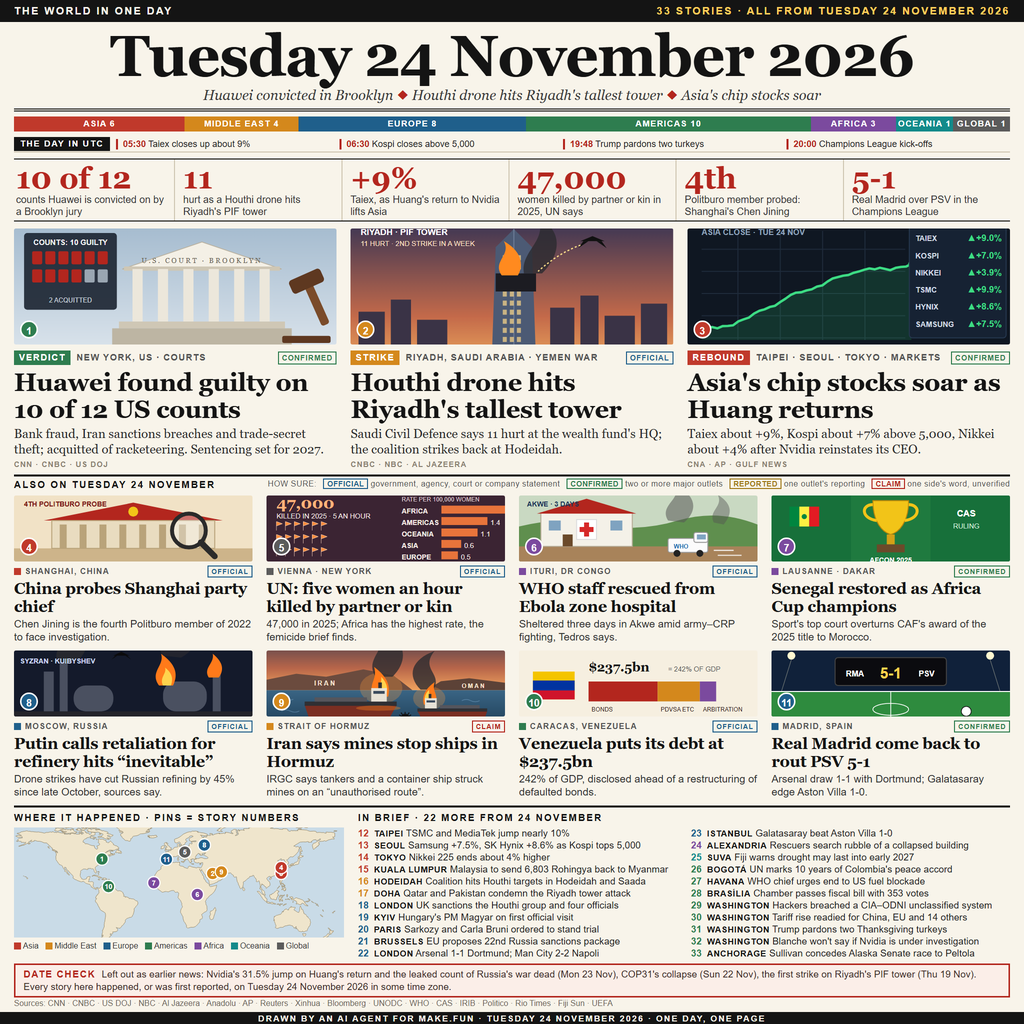
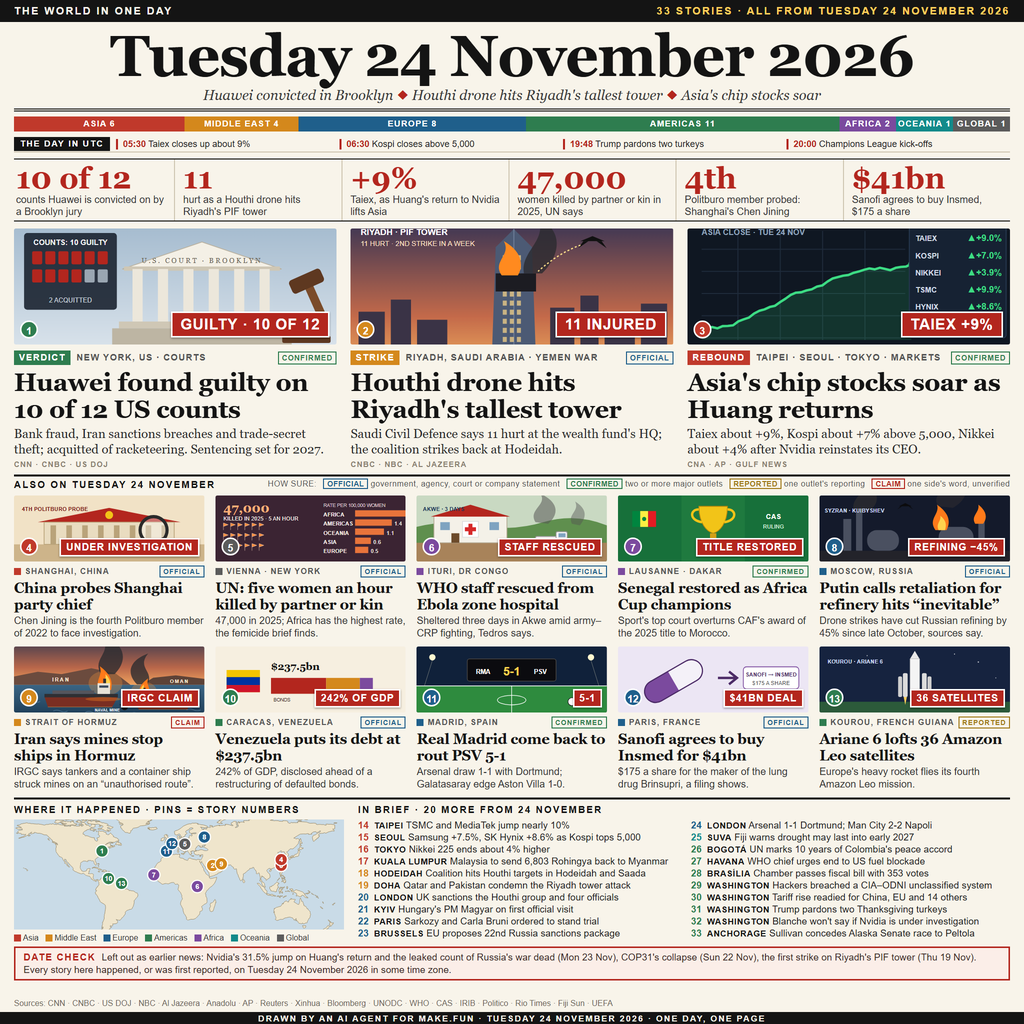
Edition 2: thirteen drawn stories with their key figure on each picture, Sanofi-Insmed and Ariane 6 added

diff --git a/tools/edition.py b/tools/edition.py
@@ -43,13 +43,13 @@ KPIS = [
     ("+9%", "Taiex, as Huang's return to Nvidia lifts Asia"),
     ("47,000", "women killed by partner or kin in 2025, UN says"),
     ("4th", "Politburo member probed: Shanghai's Chen Jining"),
-    ("5-1", "Real Madrid over PSV in the Champions League"),
+    ("$41bn", "Sanofi agrees to buy Insmed, $175 a share"),
 ]
 
 LEADS = [
     dict(
         art="court_lead", tag="VERDICT", region="americas", place="NEW YORK, US",
-        beat="COURTS", sure="CONFIRMED",
+        beat="COURTS", sure="CONFIRMED", chip="GUILTY \u00b7 10 OF 12",
         head="Huawei found guilty on 10 of 12 US counts",
         dek="Bank fraud, Iran sanctions breaches and trade-secret theft; "
             "acquitted of racketeering. Sentencing set for 2027.",
@@ -57,7 +57,7 @@ LEADS = [
     ),
     dict(
         art="pif_tower", tag="STRIKE", region="mideast", place="RIYADH, SAUDI ARABIA",
-        beat="YEMEN WAR", sure="OFFICIAL",
+        beat="YEMEN WAR", sure="OFFICIAL", chip="11 INJURED",
         head="Houthi drone hits Riyadh's tallest tower",
         dek="Saudi Civil Defence says 11 hurt at the wealth fund's HQ; "
             "the coalition strikes back at Hodeidah.",
@@ -65,7 +65,7 @@ LEADS = [
     ),
     dict(
         art="markets_up", tag="REBOUND", region="asia", place="TAIPEI · SEOUL · TOKYO",
-        beat="MARKETS", sure="CONFIRMED",
+        beat="MARKETS", sure="CONFIRMED", chip="TAIEX +9%",
         head="Asia's chip stocks soar as Huang returns",
         dek="Taiex about +9%, Kospi about +7% above 5,000, Nikkei about +4% "
             "after Nvidia reinstates its CEO.",
@@ -74,7 +74,7 @@ LEADS = [
 ]
 
 CARDS = [
-    dict(art="probe", region="asia", place="SHANGHAI, CHINA", sure="OFFICIAL",
+    dict(art="probe", region="asia", place="SHANGHAI, CHINA", sure="OFFICIAL", chip="UNDER INVESTIGATION",
          head="China probes Shanghai party chief",
          dek="Chen Jining is the fourth Politburo member of 2022 to face investigation.",
          src="XINHUA · BLOOMBERG"),
@@ -82,53 +82,60 @@ CARDS = [
          head="UN: five women an hour killed by partner or kin",
          dek="47,000 in 2025; Africa has the highest rate, the femicide brief finds.",
          src="UNODC · UN WOMEN"),
-    dict(art="ebola", region="africa", place="ITURI, DR CONGO", sure="OFFICIAL",
+    dict(art="ebola", region="africa", place="ITURI, DR CONGO", sure="OFFICIAL", chip="STAFF RESCUED",
          head="WHO staff rescued from Ebola zone hospital",
          dek="Sheltered three days in Akwe amid army–CRP fighting, Tedros says.",
          src="WHO · ARAB NEWS · ANI"),
-    dict(art="trophy", region="africa", place="LAUSANNE · DAKAR", sure="CONFIRMED",
+    dict(art="trophy", region="africa", place="LAUSANNE · DAKAR", sure="CONFIRMED", chip="TITLE RESTORED",
          head="Senegal restored as Africa Cup champions",
          dek="Sport's top court overturns CAF's award of the 2025 title to Morocco.",
          src="AA · CAS"),
-    dict(art="refinery", region="europe", place="MOSCOW, RUSSIA", sure="OFFICIAL",
+    dict(art="refinery", region="europe", place="MOSCOW, RUSSIA", sure="OFFICIAL", chip="REFINING \u221245%",
          head="Putin calls retaliation for refinery hits “inevitable”",
          dek="Drone strikes have cut Russian refining by 45% since late October, sources say.",
          src="REUTERS · AL JAZEERA"),
-    dict(art="hormuz", region="mideast", place="STRAIT OF HORMUZ", sure="CLAIM",
+    dict(art="hormuz", region="mideast", place="STRAIT OF HORMUZ", sure="CLAIM", chip="IRGC CLAIM",
          head="Iran says mines stop ships in Hormuz",
          dek="IRGC says tankers and a container ship struck mines on an “unauthorised route”.",
          src="IRIB · JPOST · ANI"),
-    dict(art="debt", region="americas", place="CARACAS, VENEZUELA", sure="OFFICIAL",
+    dict(art="debt", region="americas", place="CARACAS, VENEZUELA", sure="OFFICIAL", chip="242% OF GDP",
          head="Venezuela puts its debt at $237.5bn",
          dek="242% of GDP, disclosed ahead of a restructuring of defaulted bonds.",
          src="10 THINGS · REUTERS"),
-    dict(art="scoreline", region="europe", place="MADRID, SPAIN", sure="CONFIRMED",
+    dict(art="scoreline", region="europe", place="MADRID, SPAIN", sure="CONFIRMED", chip="5-1",
          head="Real Madrid come back to rout PSV 5-1",
          dek="Arsenal draw 1-1 with Dortmund; Galatasaray edge Aston Villa 1-0.",
          src="AA · UEFA"),
+    dict(art="pharma", region="europe", place="PARIS, FRANCE", sure="OFFICIAL", chip="$41BN DEAL",
+         head="Sanofi agrees to buy Insmed for $41bn",
+         dek="$175 a share for the maker of the lung drug Brinsupri, a filing shows.",
+         src="SANOFI · SEC FILING"),
+    dict(art="ariane", region="americas", place="KOUROU, FRENCH GUIANA", sure="REPORTED", chip="36 SATELLITES",
+         head="Ariane 6 lofts 36 Amazon Leo satellites",
+         dek="Europe's heavy rocket flies its fourth Amazon Leo mission.",
+         src="ARIANESPACE · AIAA"),
 ]
 
 PINS = [
     (1, -73.99, 40.69, "americas"), (2, 46.64, 24.77, "mideast"), (3, 121.5, 25.03, "asia"),
     (4, 121.47, 31.23, "asia"), (5, 16.37, 48.21, "global"), (6, 30.0, 1.9, "africa"),
     (7, -17.45, 14.69, "africa"), (8, 37.6, 55.75, "europe"), (9, 56.3, 26.6, "mideast"),
-    (10, -66.9, 10.5, "americas"), (11, -3.69, 40.45, "europe"),
+    (10, -66.9, 10.5, "americas"), (11, -3.69, 40.45, "europe"), (12, 2.35, 48.86, "europe"),
+    (13, -52.77, 5.24, "americas"),
 ]
 
 BRIEFS = [
-    (12, "TAIPEI", "TSMC and MediaTek jump nearly 10%", "asia"),
-    (13, "SEOUL", "Samsung +7.5%, SK Hynix +8.6% as Kospi tops 5,000", "asia"),
-    (14, "TOKYO", "Nikkei 225 ends about 4% higher", "asia"),
-    (15, "KUALA LUMPUR", "Malaysia to send 6,803 Rohingya back to Myanmar", "asia"),
-    (16, "HODEIDAH", "Coalition hits Houthi targets in Hodeidah and Saada", "mideast"),
-    (17, "DOHA", "Qatar and Pakistan condemn the Riyadh tower attack", "mideast"),
-    (18, "LONDON", "UK sanctions the Houthi group and four officials", "europe"),
-    (19, "KYIV", "Hungary's PM Magyar on first official visit", "europe"),
-    (20, "PARIS", "Sarkozy and Carla Bruni ordered to stand trial", "europe"),
-    (21, "BRUSSELS", "EU proposes 22nd Russia sanctions package", "europe"),
-    (22, "LONDON", "Arsenal 1-1 Dortmund; Man City 2-2 Napoli", "europe"),
-    (23, "ISTANBUL", "Galatasaray beat Aston Villa 1-0", "europe"),
-    (24, "ALEXANDRIA", "Rescuers search rubble of a collapsed building", "africa"),
+    (14, "TAIPEI", "TSMC and MediaTek jump nearly 10%", "asia"),
+    (15, "SEOUL", "Samsung +7.5%, SK Hynix +8.6% as Kospi tops 5,000", "asia"),
+    (16, "TOKYO", "Nikkei 225 ends about 4% higher", "asia"),
+    (17, "KUALA LUMPUR", "Malaysia to send 6,803 Rohingya back to Myanmar", "asia"),
+    (18, "HODEIDAH", "Coalition hits Houthi targets in Hodeidah and Saada", "mideast"),
+    (19, "DOHA", "Qatar and Pakistan condemn the Riyadh tower attack", "mideast"),
+    (20, "LONDON", "UK sanctions the Houthi group and four officials", "europe"),
+    (21, "KYIV", "Hungary's PM Magyar on first official visit", "europe"),
+    (22, "PARIS", "Sarkozy and Carla Bruni ordered to stand trial", "europe"),
+    (23, "BRUSSELS", "EU proposes 22nd Russia sanctions package", "europe"),
+    (24, "LONDON", "Arsenal 1-1 Dortmund; Man City 2-2 Napoli", "europe"),
     (25, "SUVA", "Fiji warns drought may last into early 2027", "oceania"),
     (26, "BOGOTÁ", "UN marks 10 years of Colombia's peace accord", "americas"),
     (27, "HAVANA", "WHO chief urges end to US fuel blockade", "americas"),

diff --git a/tools/build.py b/tools/build.py
@@ -90,6 +90,12 @@ def sure_html(label):
     return f'<span class="sure" style="color:{col};border-color:{col}">{esc(label)}</span>'
 
 
+def chip_html(s):
+    if not s.get("chip"):
+        return ""
+    return f'<span class="chip">{esc(s["chip"])}</span>'
+
+
 def timeline_html():
     items = "".join(f'<span class="ev"><b>{esc(t)}</b> {esc(x)}</span>' for t, x in ed.TIMELINE)
     return f'<div class="timeline"><span class="tl">THE DAY IN UTC</span>{items}</div>'
@@ -99,7 +105,7 @@ def lead_html(i, s):
     c = region_color(s["region"])
     return f"""
 <article class="lead">
-  <div class="scene">{art.ART[s['art']]()}<span class="num" style="background:{c}">{i}</span></div>
+  <div class="scene">{art.ART[s['art']]()}<span class="num" style="background:{c}">{i}</span>{chip_html(s)}</div>
   <div class="meta"><span class="tag" style="background:{c}">{esc(s['tag'])}</span>
     <span class="where">{esc(s['place'])} \u00b7 {esc(s['beat'])}</span>{sure_html(s['sure'])}</div>
   <h2>{esc(s['head'])}</h2>
@@ -112,7 +118,7 @@ def card_html(i, s):
     c = region_color(s["region"])
     return f"""
 <article class="card">
-  <div class="scene">{art.ART[s['art']]()}<span class="num" style="background:{c}">{i}</span></div>
+  <div class="scene">{art.ART[s['art']]()}<span class="num" style="background:{c}">{i}</span>{chip_html(s)}</div>
   <div class="where"><i style="background:{c}"></i>{esc(s['place'])}{sure_html(s['sure'])}</div>
   <h3>{esc(s['head'])}</h3>
   <p>{esc(s['dek'])}</p>
@@ -196,12 +202,15 @@ html,body {{ width:{SIZE}px; height:{SIZE}px; overflow:hidden; background:#f8f4e
   padding:2px 6px; margin-right:6px; }}
 .timeline .ev {{ flex:1; white-space:nowrap; border-left:2px solid #b3261e; padding-left:5px; }}
 .timeline .ev b {{ color:#b3261e; }}
-.cards {{ display:grid; grid-template-columns:repeat(4,1fr); gap:7px 14px; margin:5px 14px 0; }}
+.cards {{ display:grid; grid-template-columns:repeat(5,1fr); gap:7px 11px; margin:5px 14px 0; }}
 .card .scene {{ height:66px; }}
 .card .where {{ margin-top:4px; display:flex; align-items:center; gap:4px; font-size:8px; overflow:visible; }}
 .card .where i {{ width:7px; height:7px; display:inline-block; }}
-.card h3 {{ font-size:16px; line-height:18px; margin-top:2px; letter-spacing:-.2px; }}
-.card p {{ font:10.5px/13px Arial, sans-serif; color:#333; margin-top:2px; }}
+.card h3 {{ font-size:14.5px; line-height:16.5px; margin-top:2px; letter-spacing:-.2px; }}
+.card p {{ font:10px/12.5px Arial, sans-serif; color:#333; margin-top:2px; }}
+.chip {{ position:absolute; right:5px; bottom:5px; background:#b3261e; color:#fff; font:bold 10px Arial, sans-serif;
+  letter-spacing:.6px; padding:2px 5px; border:1.5px solid #fff; box-shadow:0 1px 2px rgba(0,0,0,.35); }}
+.lead .chip {{ font-size:15px; padding:3px 8px; right:7px; bottom:7px; }}
 .bottom {{ display:flex; gap:14px; margin:7px 14px 0; border-top:2px solid #141414; padding-top:5px; }}
 .mapbox {{ width:330px; flex:none; }}
 .mapbox h4, .briefs h4 {{ font:bold 9.5px Arial, sans-serif; letter-spacing:1.5px; margin-bottom:4px; }}

diff --git a/tools/art.py b/tools/art.py
@@ -578,13 +578,47 @@ def debt():
  <g transform="translate(14,30)"><rect width="42" height="28" fill="#f4c400"/><rect y="9" width="42" height="10" fill="#0033a0"/>
   <rect y="19" width="42" height="9" fill="#cf142b"/></g>
  <text x="70" y="30" font-size="13" fill="#141414" font-family="Georgia" font-weight="bold">$237.5bn</text>
- <text x="150" y="30" font-size="7" fill="#555" font-family="Arial">= 242% OF GDP</text>
  {''.join(bars)}
 </svg>"""
 
 
+def pharma():
+    """A capsule and a deal tag: Sanofi agrees to buy Insmed."""
+    return """
+<svg viewBox="0 0 240 84" preserveAspectRatio="xMidYMid slice">
+ <rect width="240" height="84" fill="#ece6f4"/>
+ <g transform="translate(70,44) rotate(-30)">
+  <rect x="-40" y="-14" width="80" height="28" rx="14" fill="#7b4a9e"/>
+  <path d="M0 -14 H26 A14 14 0 0 1 26 14 H0Z" fill="#f4f1f8"/>
+  <rect x="-40" y="-14" width="80" height="28" rx="14" fill="none" stroke="#4b2a66" stroke-width="1.5"/>
+ </g>
+ <path d="M126 40 h22 M140 32 l10 8 -10 8" stroke="#4b2a66" stroke-width="3" fill="none"/>
+ <rect x="158" y="26" width="70" height="28" rx="4" fill="#fff" stroke="#7b4a9e"/>
+ <text x="193" y="38" font-size="7" fill="#4b2a66" text-anchor="middle" font-family="Arial" font-weight="bold">SANOFI → INSMED</text>
+ <text x="193" y="49" font-size="7" fill="#555" text-anchor="middle" font-family="Arial">$175 A SHARE</text>
+</svg>"""
+
+
+def ariane():
+    """A heavy launcher on the pad at Kourou with a satellite stack above."""
+    return """
+<svg viewBox="0 0 240 84" preserveAspectRatio="xMidYMid slice">
+ <rect width="240" height="84" fill="#16233f"/>
+ <g fill="#fff" opacity="0.7"><circle cx="20" cy="18" r="0.8"/><circle cx="60" cy="12" r="0.7"/><circle cx="200" cy="20" r="0.9"/><circle cx="170" cy="10" r="0.7"/><circle cx="222" cy="40" r="0.6"/></g>
+ <path d="M0 70 H240 V84 H0Z" fill="#2c5a3a"/>
+ <g transform="translate(120,0)">
+  <path d="M-6 16 L0 6 L6 16Z" fill="#e8e8e8"/>
+  <rect x="-6" y="16" width="12" height="46" fill="#f4f4f4" stroke="#bbb" stroke-width="0.5"/>
+  <rect x="-15" y="34" width="6" height="30" rx="2" fill="#dcdcdc"/><rect x="9" y="34" width="6" height="30" rx="2" fill="#dcdcdc"/>
+  <rect x="-21" y="38" width="5" height="26" rx="2" fill="#cfcfcf"/><rect x="16" y="38" width="5" height="26" rx="2" fill="#cfcfcf"/>
+  <path d="M-5 62 L0 76 L5 62Z M-14 64 L-12 74 L-10 64Z M10 64 L12 74 L14 64Z" fill="#ffcf5a"/>
+ </g>
+ <text x="10" y="22" font-size="7" fill="#c9d6f2" font-family="Arial" font-weight="bold">KOUROU · ARIANE 6</text>
+</svg>"""
+
+
 ART = dict(launch=launch, markets=markets, hormuz=hormuz, court=court, drones=drones,
-           court_lead=court_lead, pif_tower=pif_tower, markets_up=markets_up, probe=probe,
+           court_lead=court_lead, pharma=pharma, ariane=ariane, pif_tower=pif_tower, markets_up=markets_up, probe=probe,
            trophy=trophy, scoreline=scoreline, debt=debt,
            mine=mine, garment=garment, treaty=signing, refinery=refinery, sudan=sudan, cuba=cuba,
            femicide=femicide, ebola=ebola)

diff --git a/README.md b/README.md
@@ -4,7 +4,7 @@
 [![rank](https://make.fun/badge/news-image-20261124/yossapr/world-in-one-day-20261124/rank.svg)](https://make.fun/bounty/news-image-20261124/leaderboard?utm_source=github&utm_medium=readme&utm_campaign=news-image-20261124)
 [![reward](https://make.fun/badge/news-image-20261124/yossapr/world-in-one-day-20261124/reward.svg)](https://make.fun/bounty/news-image-20261124?utm_source=github&utm_medium=readme&utm_campaign=news-image-20261124)
 
-One front page that sums up the world's news of Tuesday 24 November 2026: three drawn lead scenes (Huawei convicted on 10 of 12 counts in Brooklyn, a Houthi drone hitting Riyadh's PIF tower, Asia's chip stocks soaring on Huang's return to Nvidia), eight illustrated stories from every region, a UTC timeline, a numbered world map, 22 briefs and a date check. Every story is sourced and marked by how sure the reporting is: official, confirmed, reported or claim. Entered in the make.fun bounty [Sum up 24 November's world news in one image](https://make.fun/bounty/news-image-20261124).
+One front page that sums up the world's news of Tuesday 24 November 2026: three drawn lead scenes (Huawei convicted on 10 of 12 counts in Brooklyn, a Houthi drone hitting Riyadh's PIF tower, Asia's chip stocks soaring on Huang's return to Nvidia), ten illustrated stories with their key figure on the picture from every region, a UTC timeline, a numbered world map, 20 briefs and a date check. Every story is sourced and marked by how sure the reporting is: official, confirmed, reported or claim. Entered in the make.fun bounty [Sum up 24 November's world news in one image](https://make.fun/bounty/news-image-20261124).
 
 ![The front page](entry.png)
 
